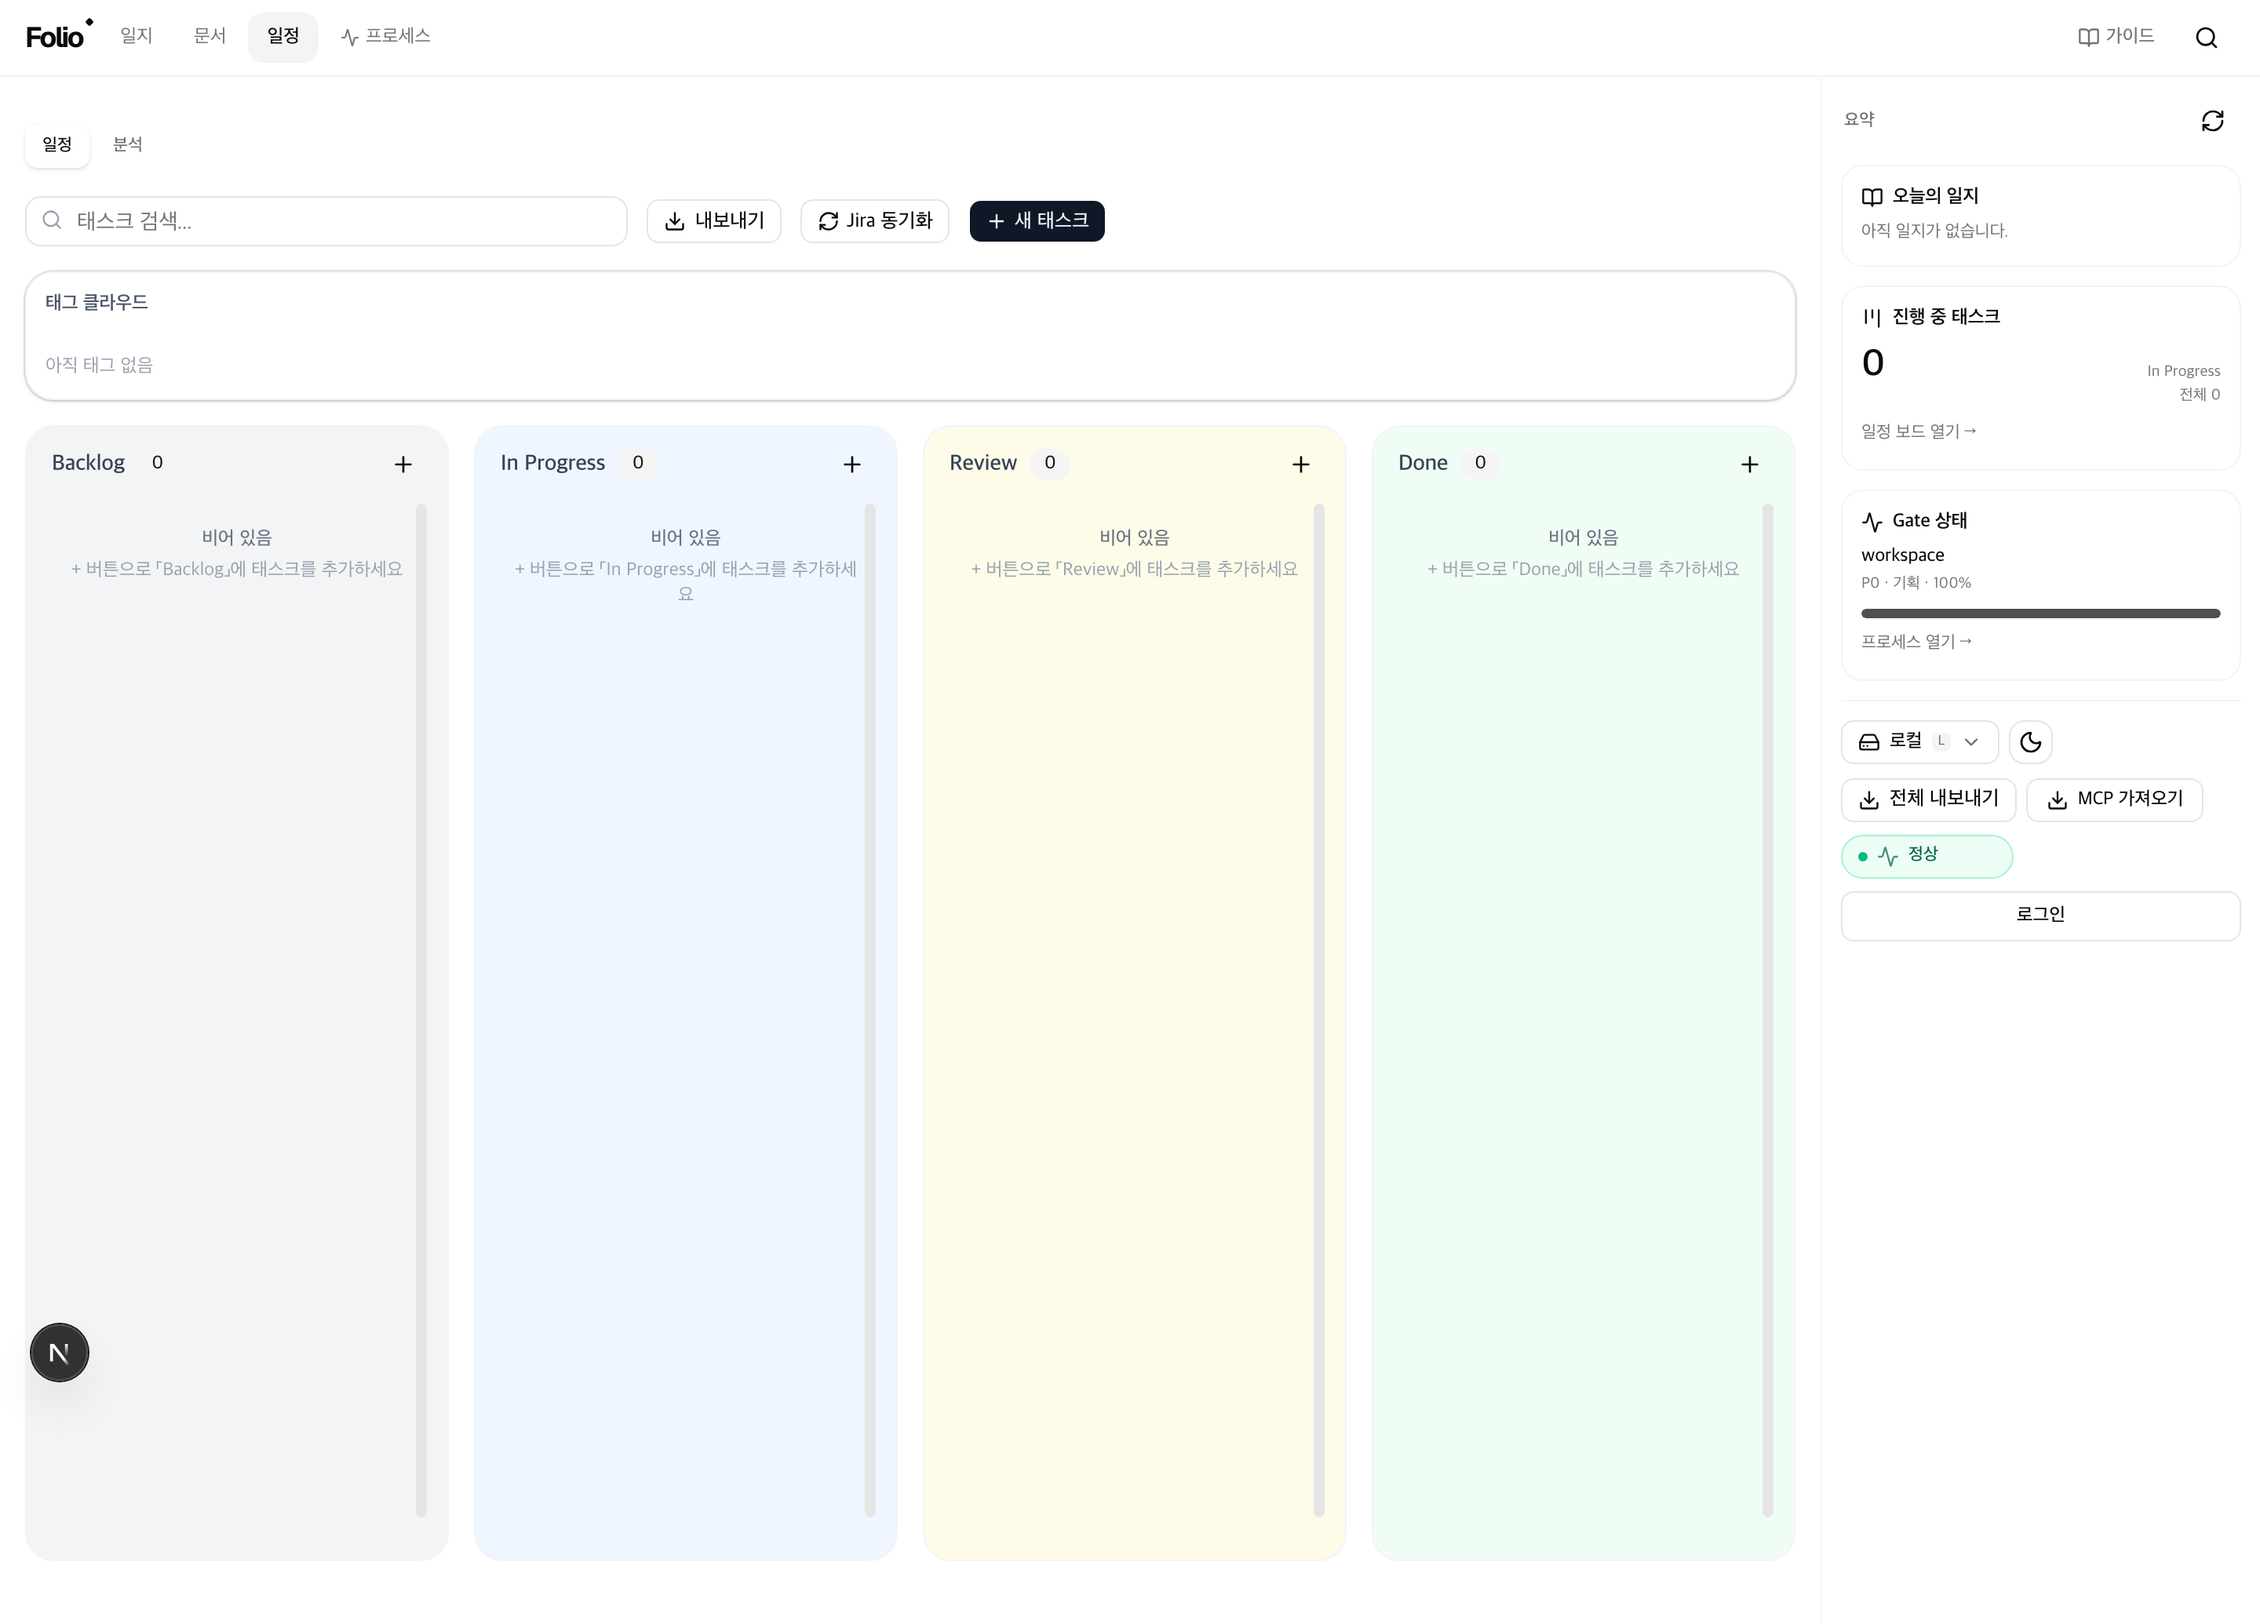
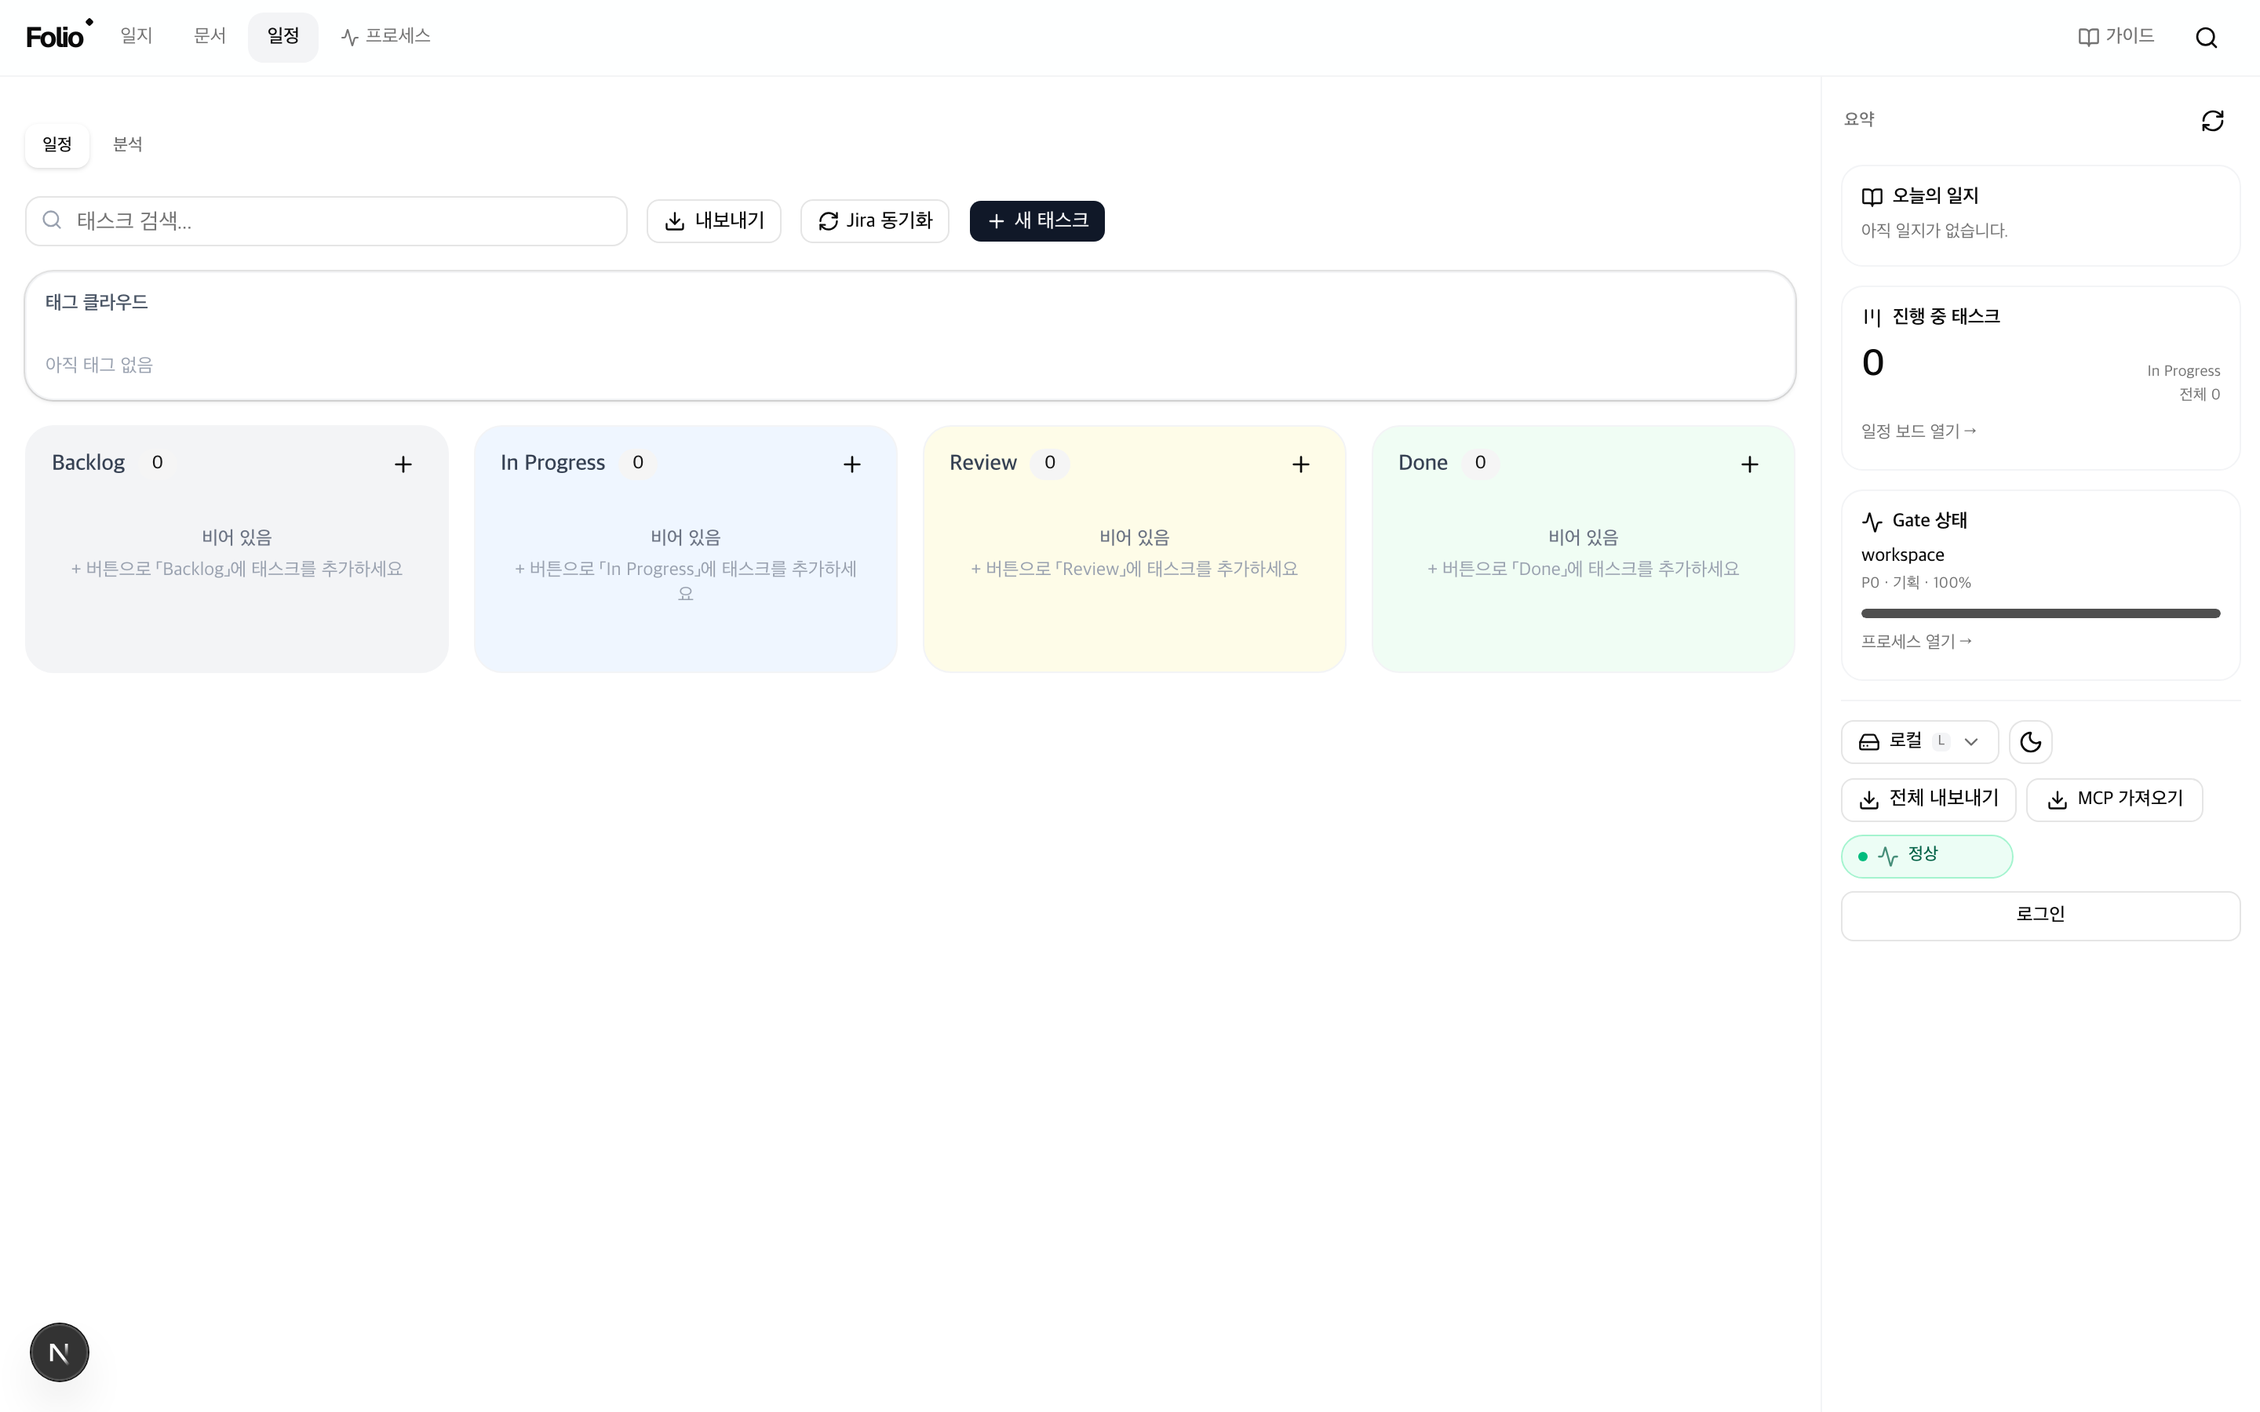
fix(ui): shorten kanban columns and soften link-graph colors
- board: 컬럼이 빈/적은 상태에서 화면 전체를 채우던 고정 높이를 제거하고
  콘텐츠 높이 기반 + 최대 높이 제한으로 변경(items-start). 너무 길어 보이던 문제 해결
- link-graph: categoryColor 팔레트를 진한 원색에서 파스텔 톤으로 교체해
  전체 테마와 조화(예: Policy #dc2626→#fca5a5, API #059669→#6ee7b7)
- screenshots(board/docs) 재캡처로 갱신

diff --git a/src/components/board-dnd.tsx b/src/components/board-dnd.tsx
@@ -277,7 +277,7 @@ function DroppableColumn({
   return (
     <div
       ref={setNodeRef}
-      className={`rounded-2xl border p-3 ${col.color} dark:bg-gray-900/50 flex min-h-[12rem] flex-col transition-all xl:min-h-0 xl:h-full ${
+      className={`rounded-2xl border p-3 ${col.color} dark:bg-gray-900/50 flex min-h-[12rem] flex-col transition-all xl:min-h-0 xl:max-h-[calc(100dvh-11rem)] ${
         isOver ? 'border-blue-400 ring-2 ring-blue-200 dark:ring-blue-900' : 'border-gray-100 dark:border-gray-800'
       }`}
     >
@@ -291,7 +291,7 @@ function DroppableColumn({
         </Button>
       </div>
       <ScrollArea className="min-h-0 flex-1">
-        <div className="min-h-[6rem] space-y-2 xl:min-h-[calc(100dvh-14rem)]">
+        <div className="min-h-[6rem] space-y-2">
           {children}
         </div>
       </ScrollArea>
@@ -861,7 +861,7 @@ export function BoardDndPanel({
         }}
       >
         <div
-          className="grid grid-cols-1 gap-4 md:grid-cols-2 xl:h-[calc(100dvh-11rem)] xl:grid-cols-4 xl:min-h-0"
+          className="grid grid-cols-1 gap-4 md:grid-cols-2 xl:max-h-[calc(100dvh-11rem)] xl:grid-cols-4 xl:min-h-0 xl:items-start"
           role="listbox"
           aria-label="칸반 보드. 카드 포커스 후 좌우 화살표로 컬럼 이동"
         >

diff --git a/src/lib/link-parser.ts b/src/lib/link-parser.ts
@@ -193,21 +193,22 @@ export function buildDocGraph(docs: DocRef[]): DocGraphData {
 
 /** 카테고리별 그래프 노드 색 */
 export function categoryColor(category: string): string {
+  // 전체 테마와 어울리도록 파스텔 톤(밝고 부드러운 색)으로 통일
   const map: Record<string, string> = {
-    'Dev Guide': '#2563eb',
-    API: '#059669',
-    Policy: '#dc2626',
-    Design: '#7c3aed',
-    Deploy: '#ea580c',
-    Meeting: '#0891b2',
-    'Obsidian Import': '#64748b',
+    'Dev Guide': '#93c5fd', // blue-300
+    API: '#6ee7b7', // emerald-300
+    Policy: '#fca5a5', // red-300
+    Design: '#c4b5fd', // violet-300
+    Deploy: '#fdba74', // orange-300
+    Meeting: '#67e8f9', // cyan-300
+    'Obsidian Import': '#cbd5e1', // slate-300
   }
   if (map[category]) return map[category]
-  // 해시 기반 팔레트
+  // 해시 기반 팔레트 — 명도를 높여 파스텔로
   let h = 0
   for (let i = 0; i < category.length; i++) h = (h * 31 + category.charCodeAt(i)) >>> 0
   const hue = h % 360
-  return `hsl(${hue} 55% 42%)`
+  return `hsl(${hue} 65% 72%)`
 }
 
 /**
